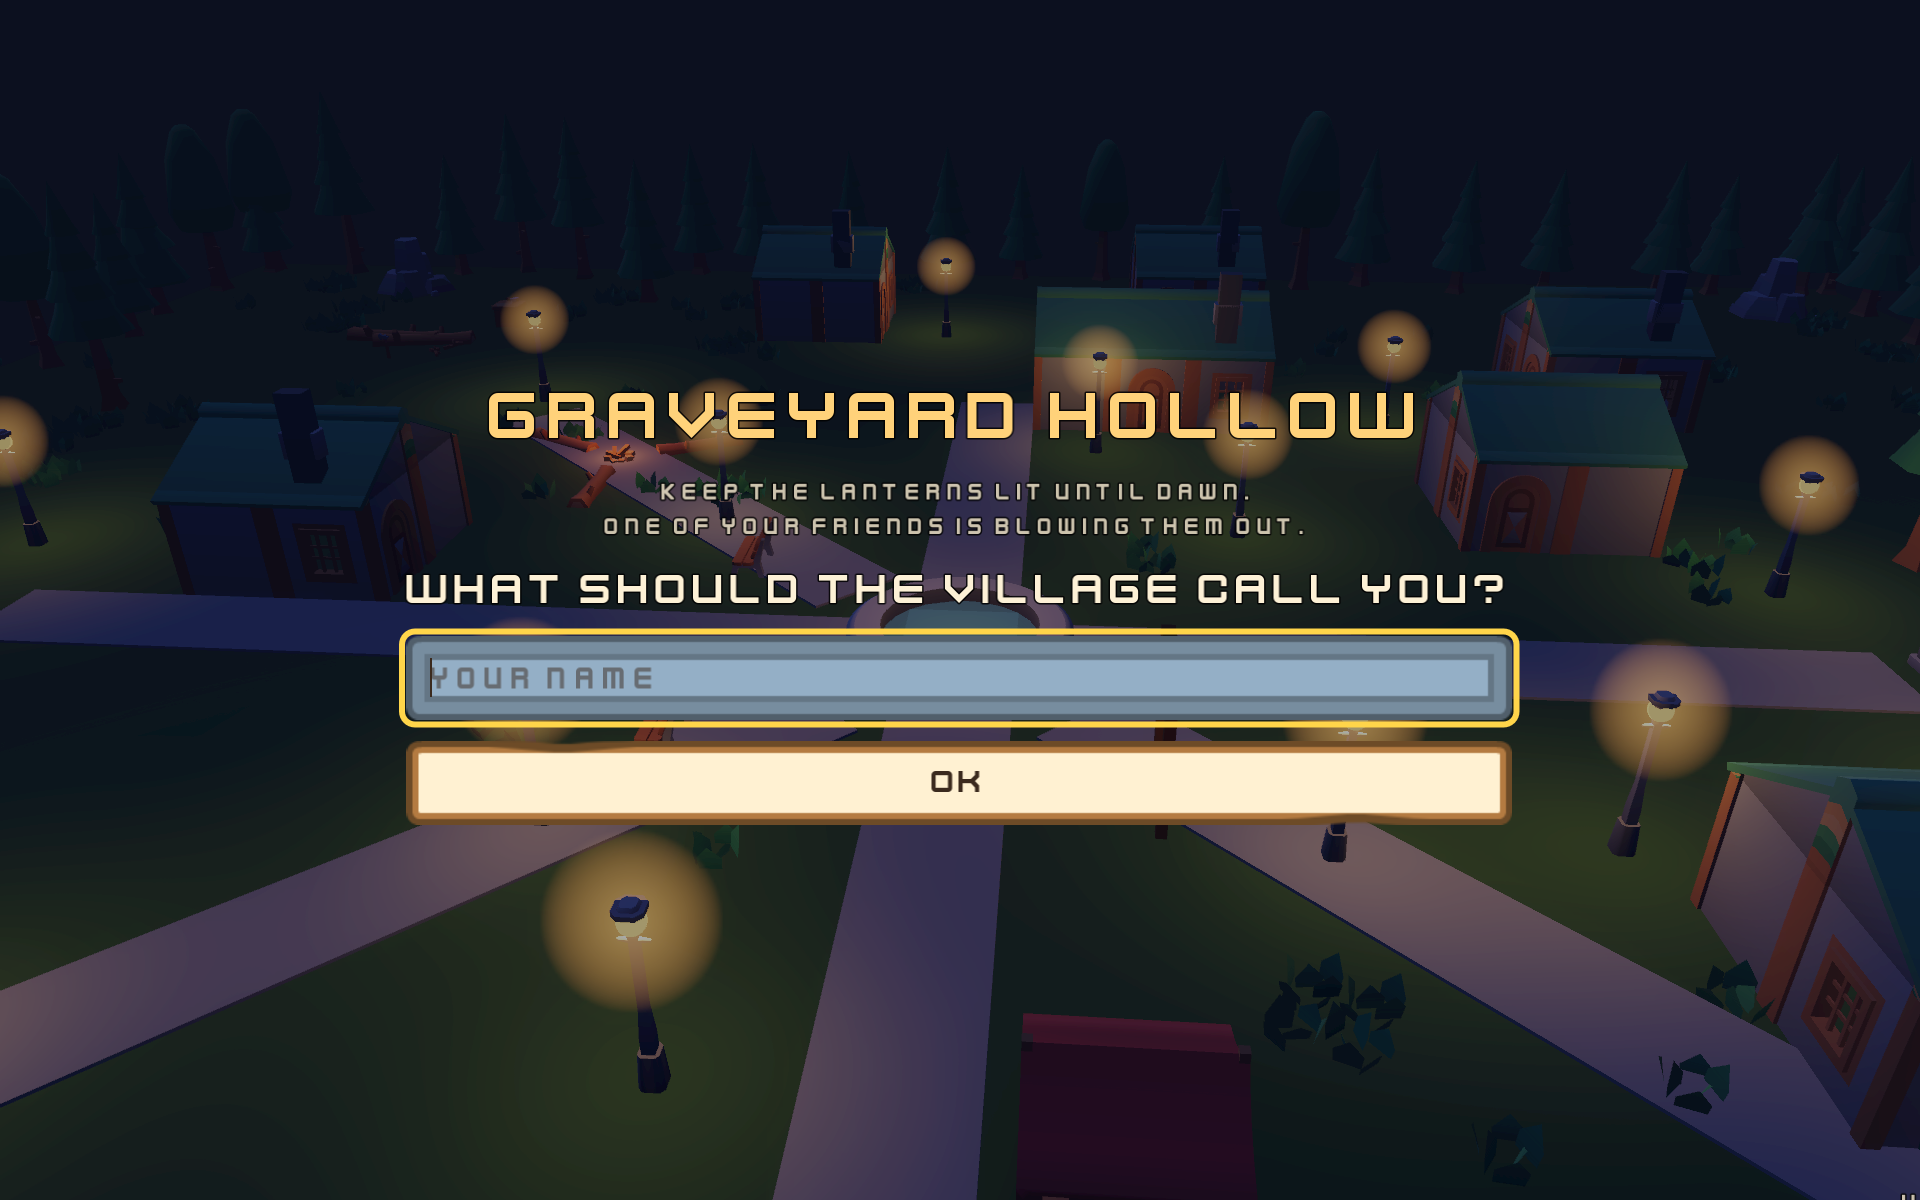
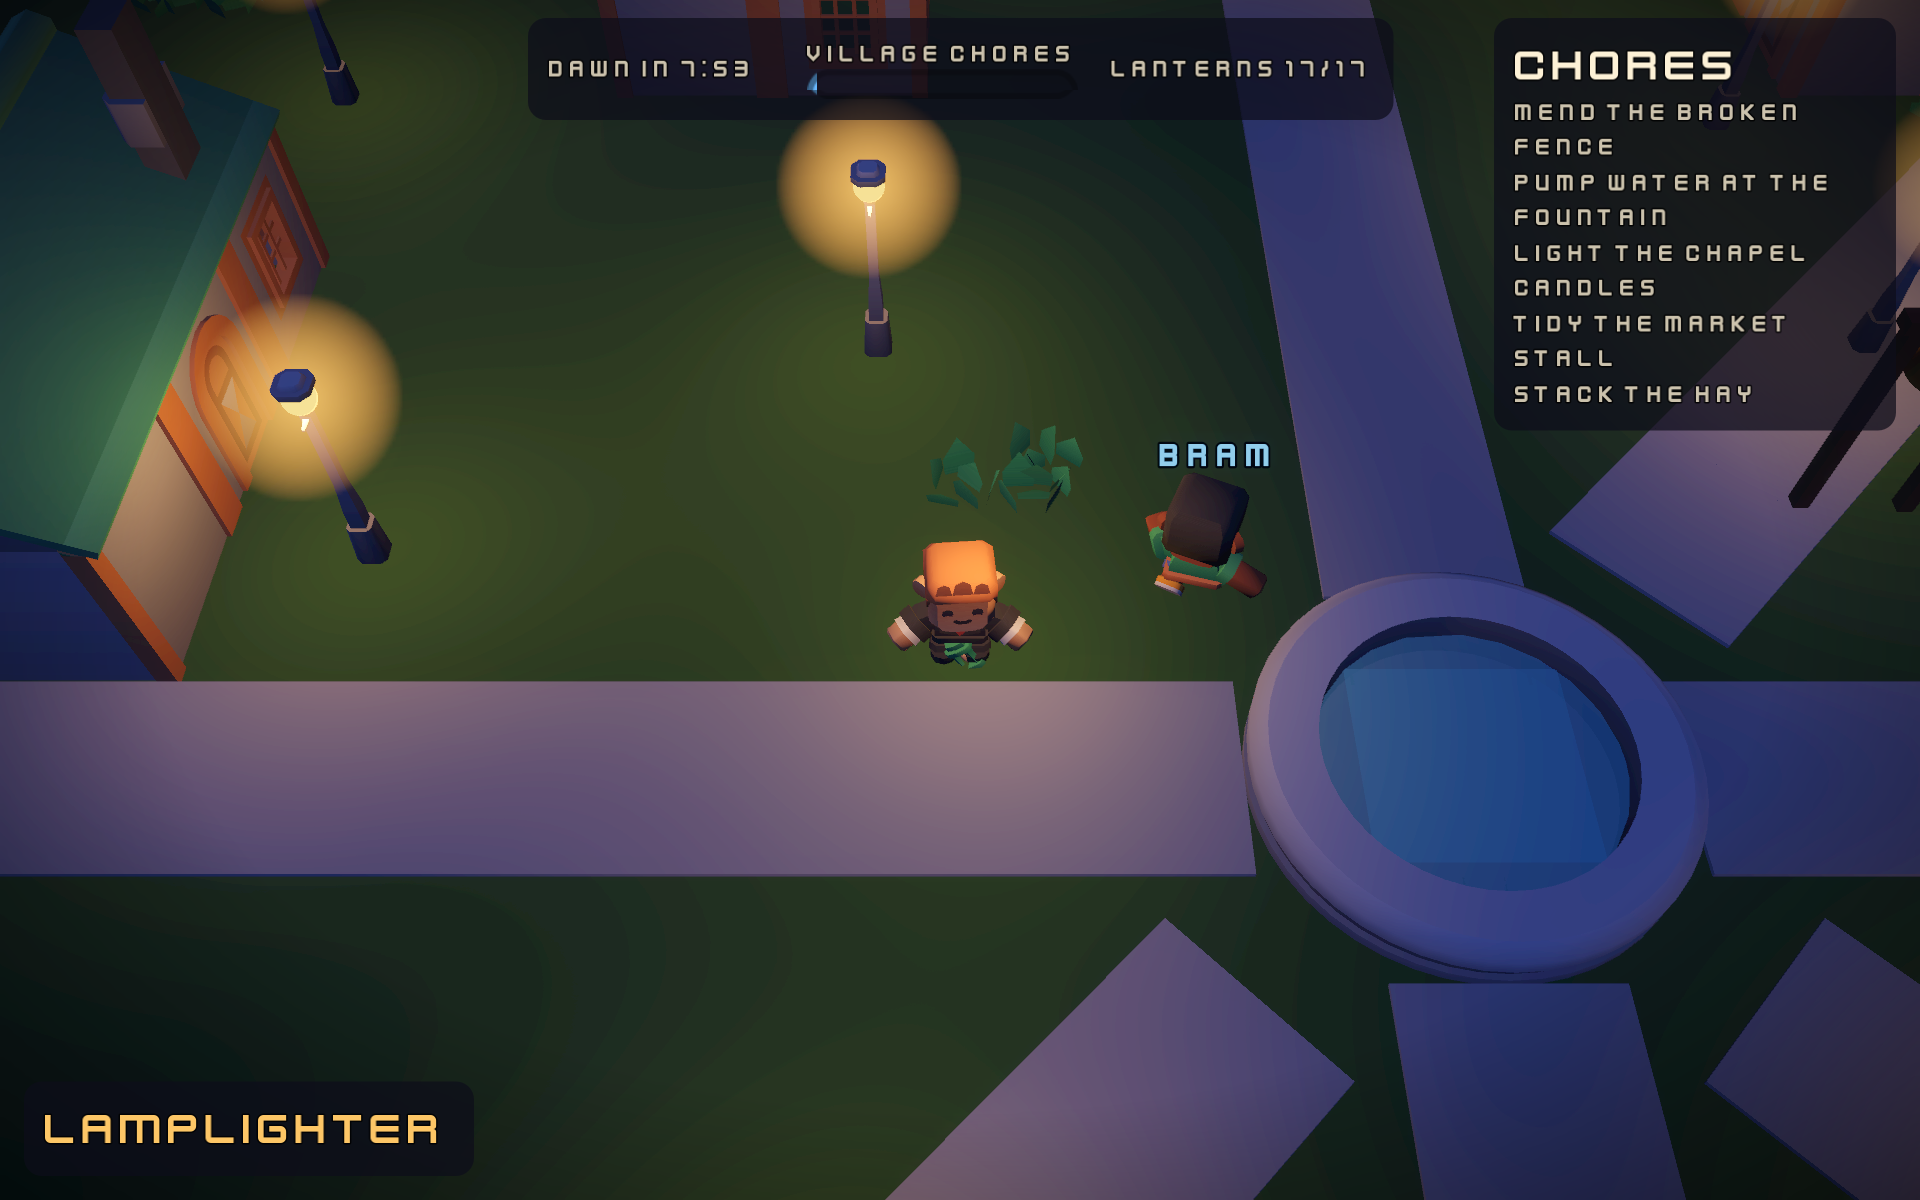
Add verdigris-protocol, block-party-skyway; refresh graveyard-hollow, foam-frenzy media

diff --git a/README.md b/README.md
@@ -26,6 +26,7 @@ from the Snap Store's public API.
 | Snap | Title | License |
 |------|-------|---------|
 | `antsy-alien-attack-pico` | Antsy Alien Attack Pico | CC-BY-NC-SA-4.0 OR MIT |
+| `block-party-skyway` | Block Party: Skyway | Apache-2.0 AND CC0-1.0 AND MIT |
 | `foam-frenzy` | Foam Frenzy | Apache-2.0 AND CC0-1.0 AND MIT |
 | `gamepad-2048` | 2048 - Gamepad | GPL-3.0 |
 | `gamepad-minecraft` | Minecraft - Gamepad | GPL-3.0 |
@@ -33,6 +34,7 @@ from the Snap Store's public API.
 | `steam` | Steam | Proprietary |
 | `supertux` | SuperTux | GPL-3.0 |
 | `supertuxkart` | SuperTuxKart | GPL-3.0+ |
+| `verdigris-protocol` | Verdigris Protocol | Apache-2.0 AND CC0-1.0 AND MIT AND OFL-1.1 |
 
 ## Schema
 
